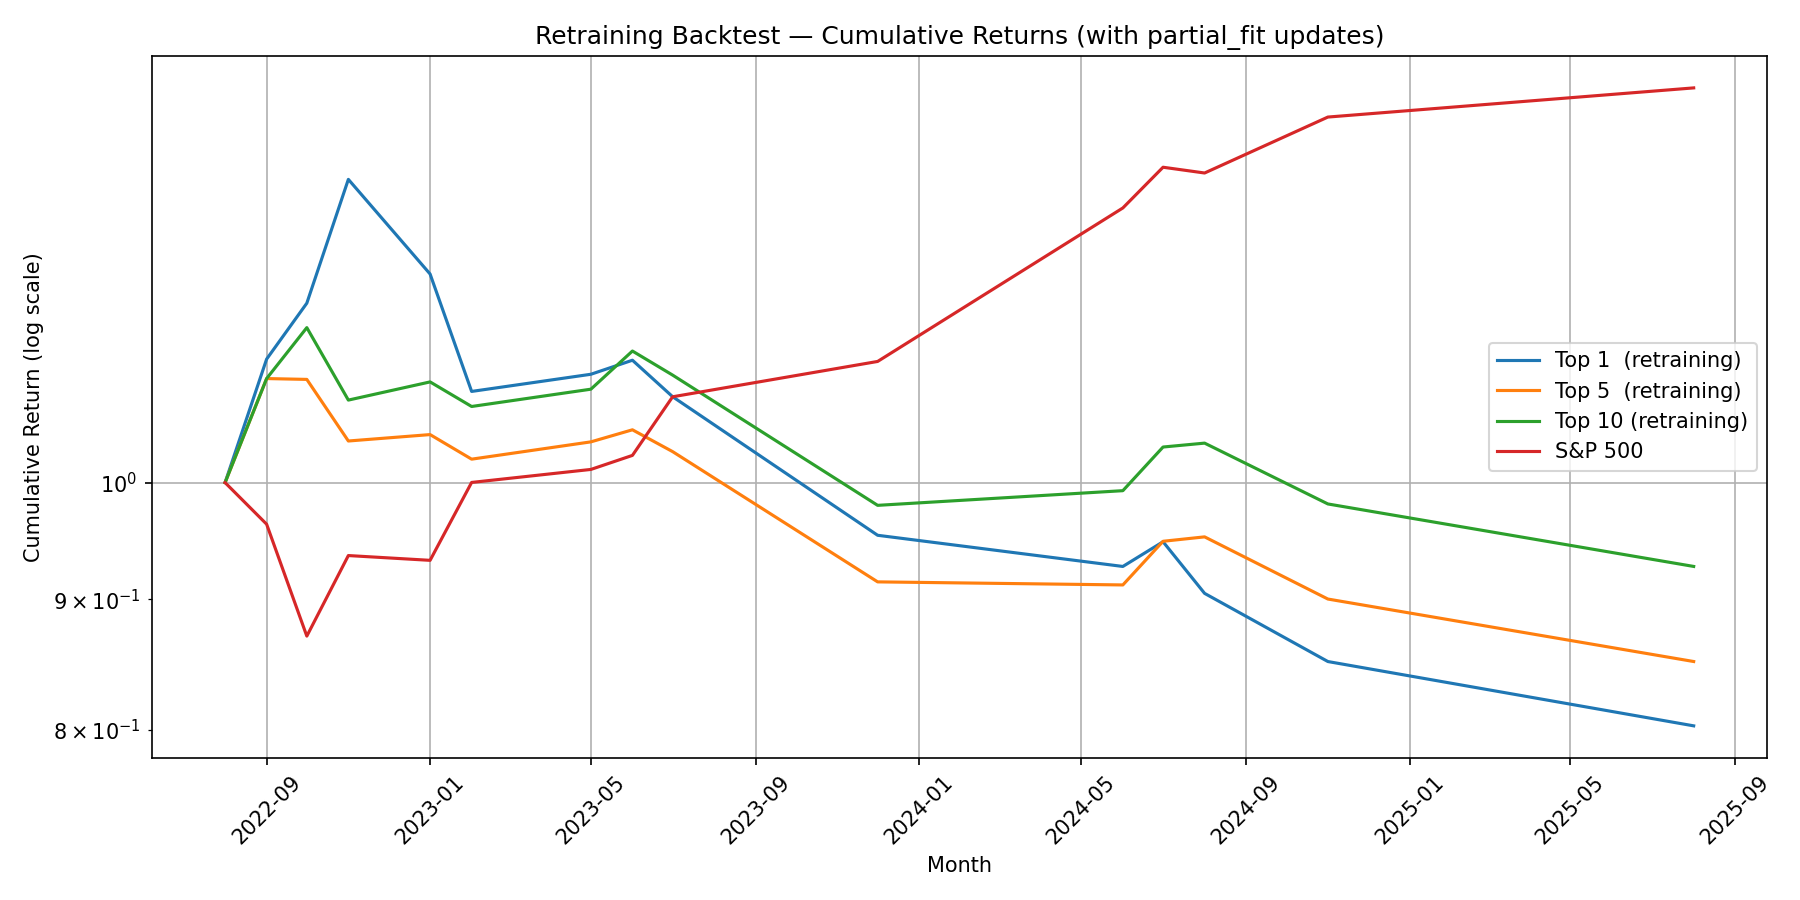
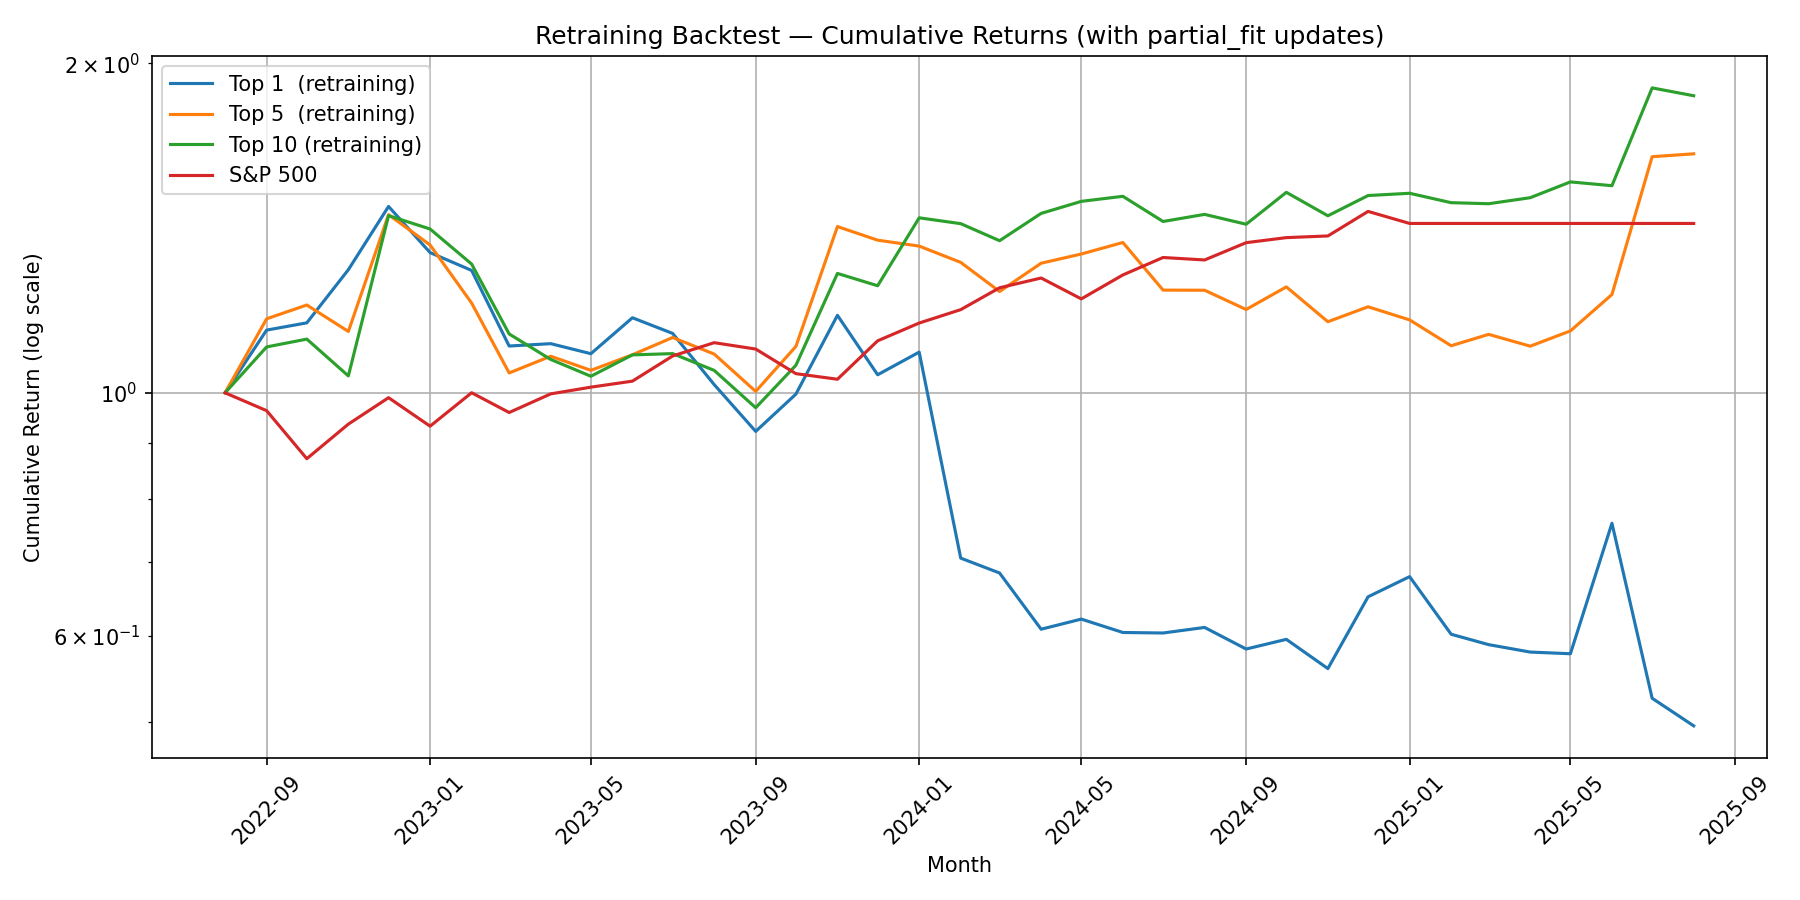
Changed some thresholds

diff --git a/backtest_update4py.py b/backtest_update4py.py
@@ -62,12 +62,12 @@ block_offsets = {
     "daily":   300,   # starts after 150 monthly + 150 weekly cols
 }
 MODEL_THRESHOLD_GRIDS = {
-    "monthly":   [0.52],
-    "weekly":    [0.52],
-    "daily":     [0.52],
-    "monthly_p": [-0.004],
-    "weekly_p":  [-0.004],
-    "daily_p":   [-0.004],
+    "monthly":   [0.4],
+    "weekly":    [0.4],
+    "daily":     [0.4],
+    "monthly_p": [-0.1],
+    "weekly_p":  [-0.1],
+    "daily_p":   [-0.1],
 }
 
 CLASSIFICATION_MODELS = ("monthly", "weekly", "daily")
@@ -234,15 +234,19 @@ def main():
 
     for T_idx, month in enumerate(test_months_sorted):
         month_mask = (dates_all == month) & test_mask
-
         if month_mask.sum() == 0:
             continue
 
-        # ── a) Score this month ───────────────────────────────────────────────
         month_scores = {}
         for model_name, bundle in loaded_models.items():
-            month_scores[model_name] = score_block(
-                bundle, X, month_mask, block_offsets, model_name
+            scores = score_block(bundle, X, month_mask, block_offsets, model_name)
+            month_scores[model_name] = scores
+            
+            # DEBUG — print score distribution per model per month
+            print(f"  {month.date()} | {model_name:12s} | "
+                f"mean={scores.mean():.4f}  std={scores.std():.4f}  "
+                f"min={scores.min():.4f}  max={scores.max():.4f}  "
+                f"pct_above_thr={np.mean(scores >= MODEL_THRESHOLD_GRIDS[model_name][0])*100:.1f}%"
             )
 
         # Store for later threshold sweep + ranking